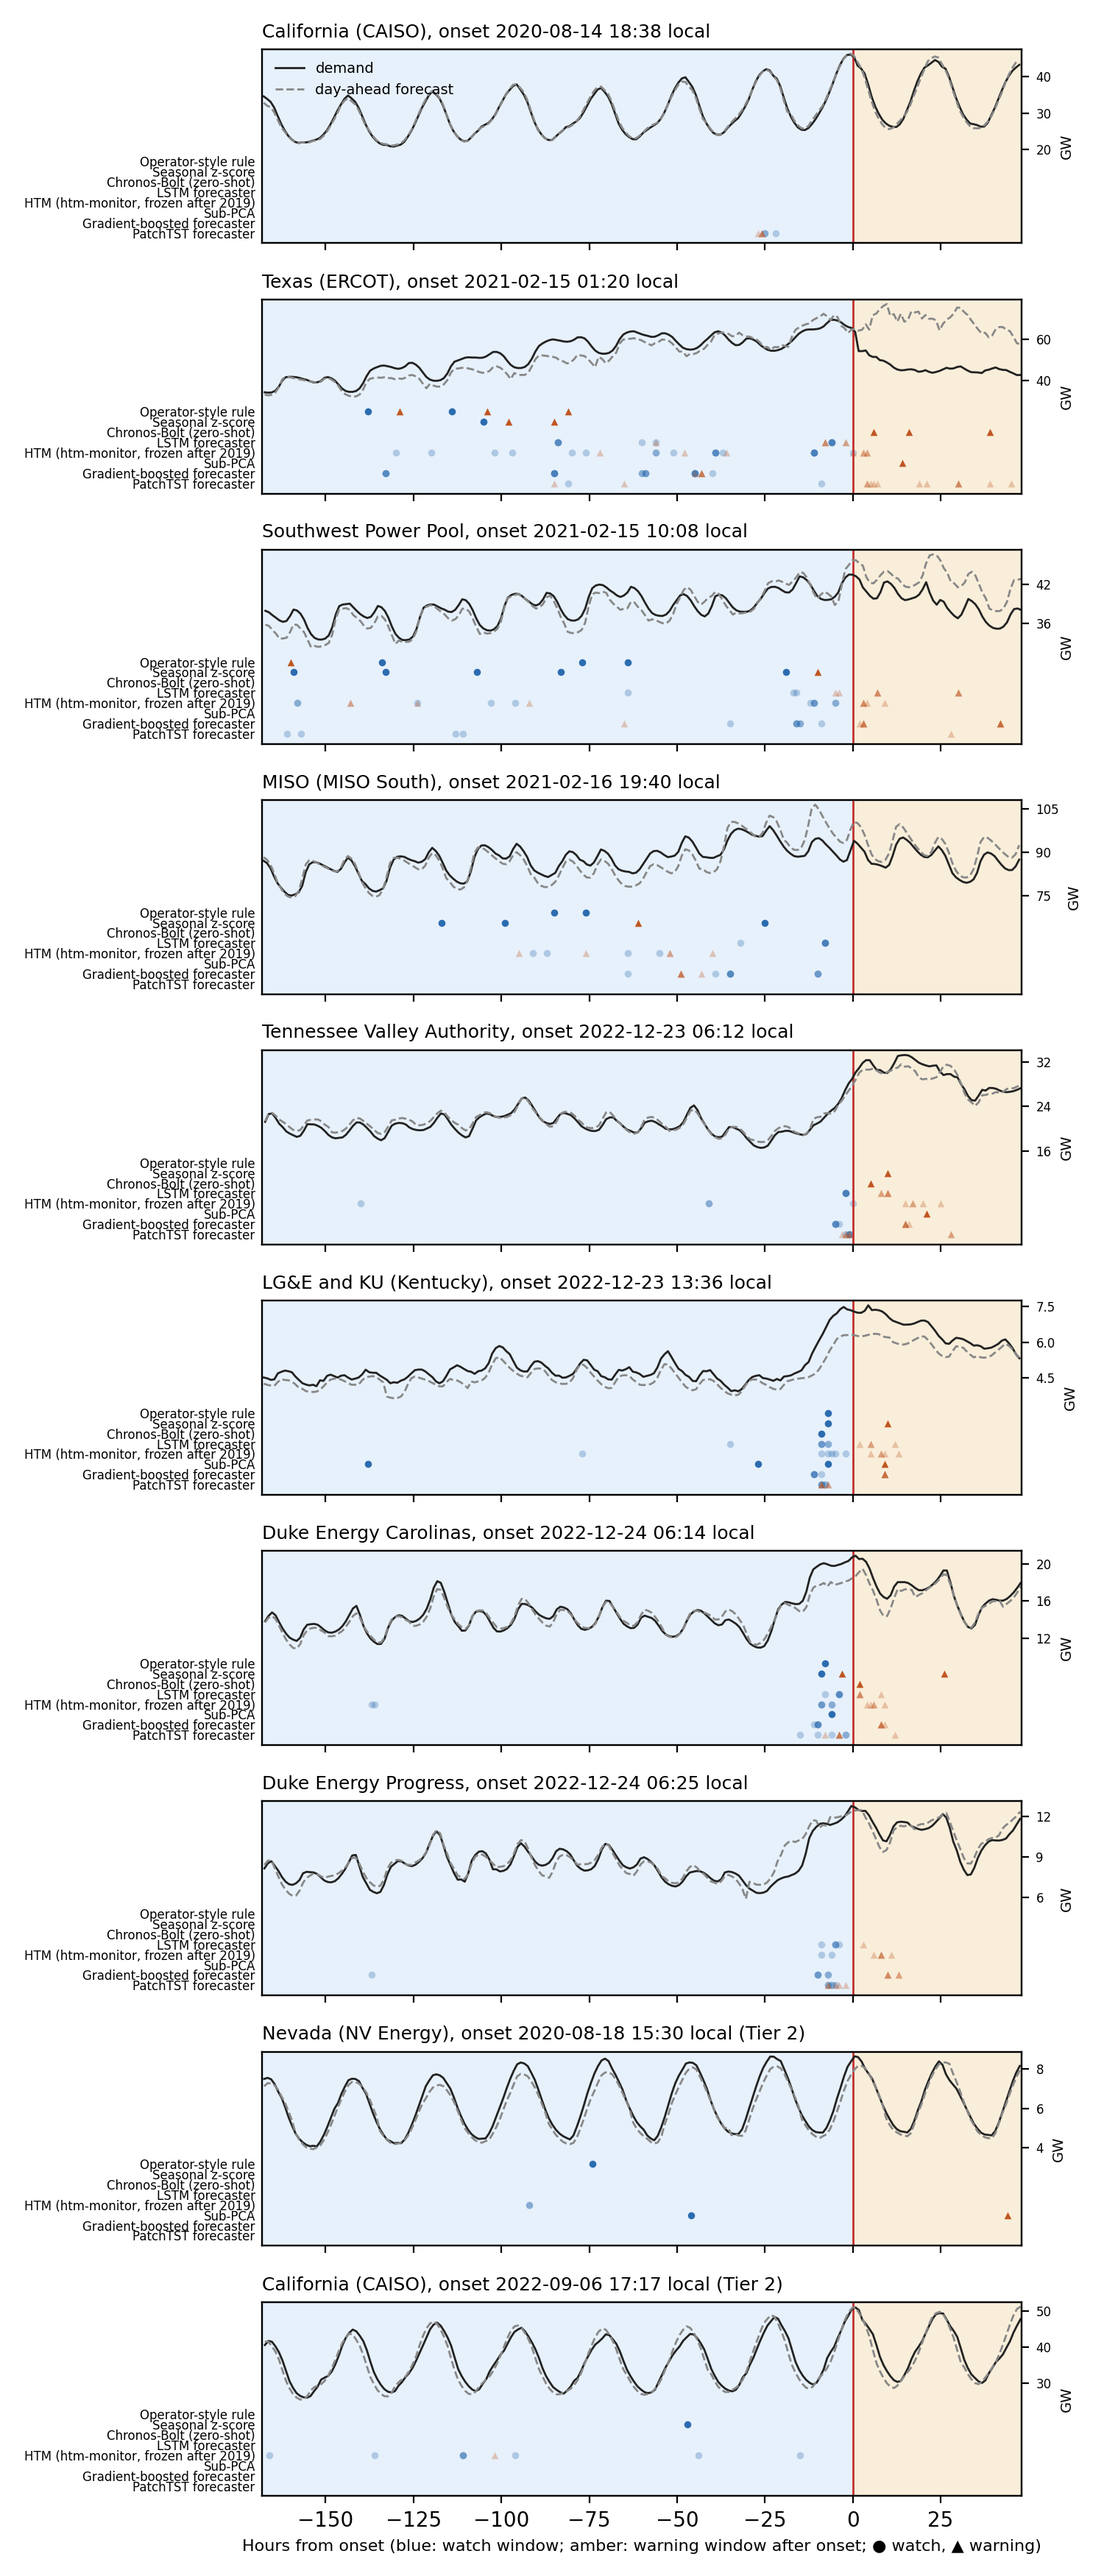
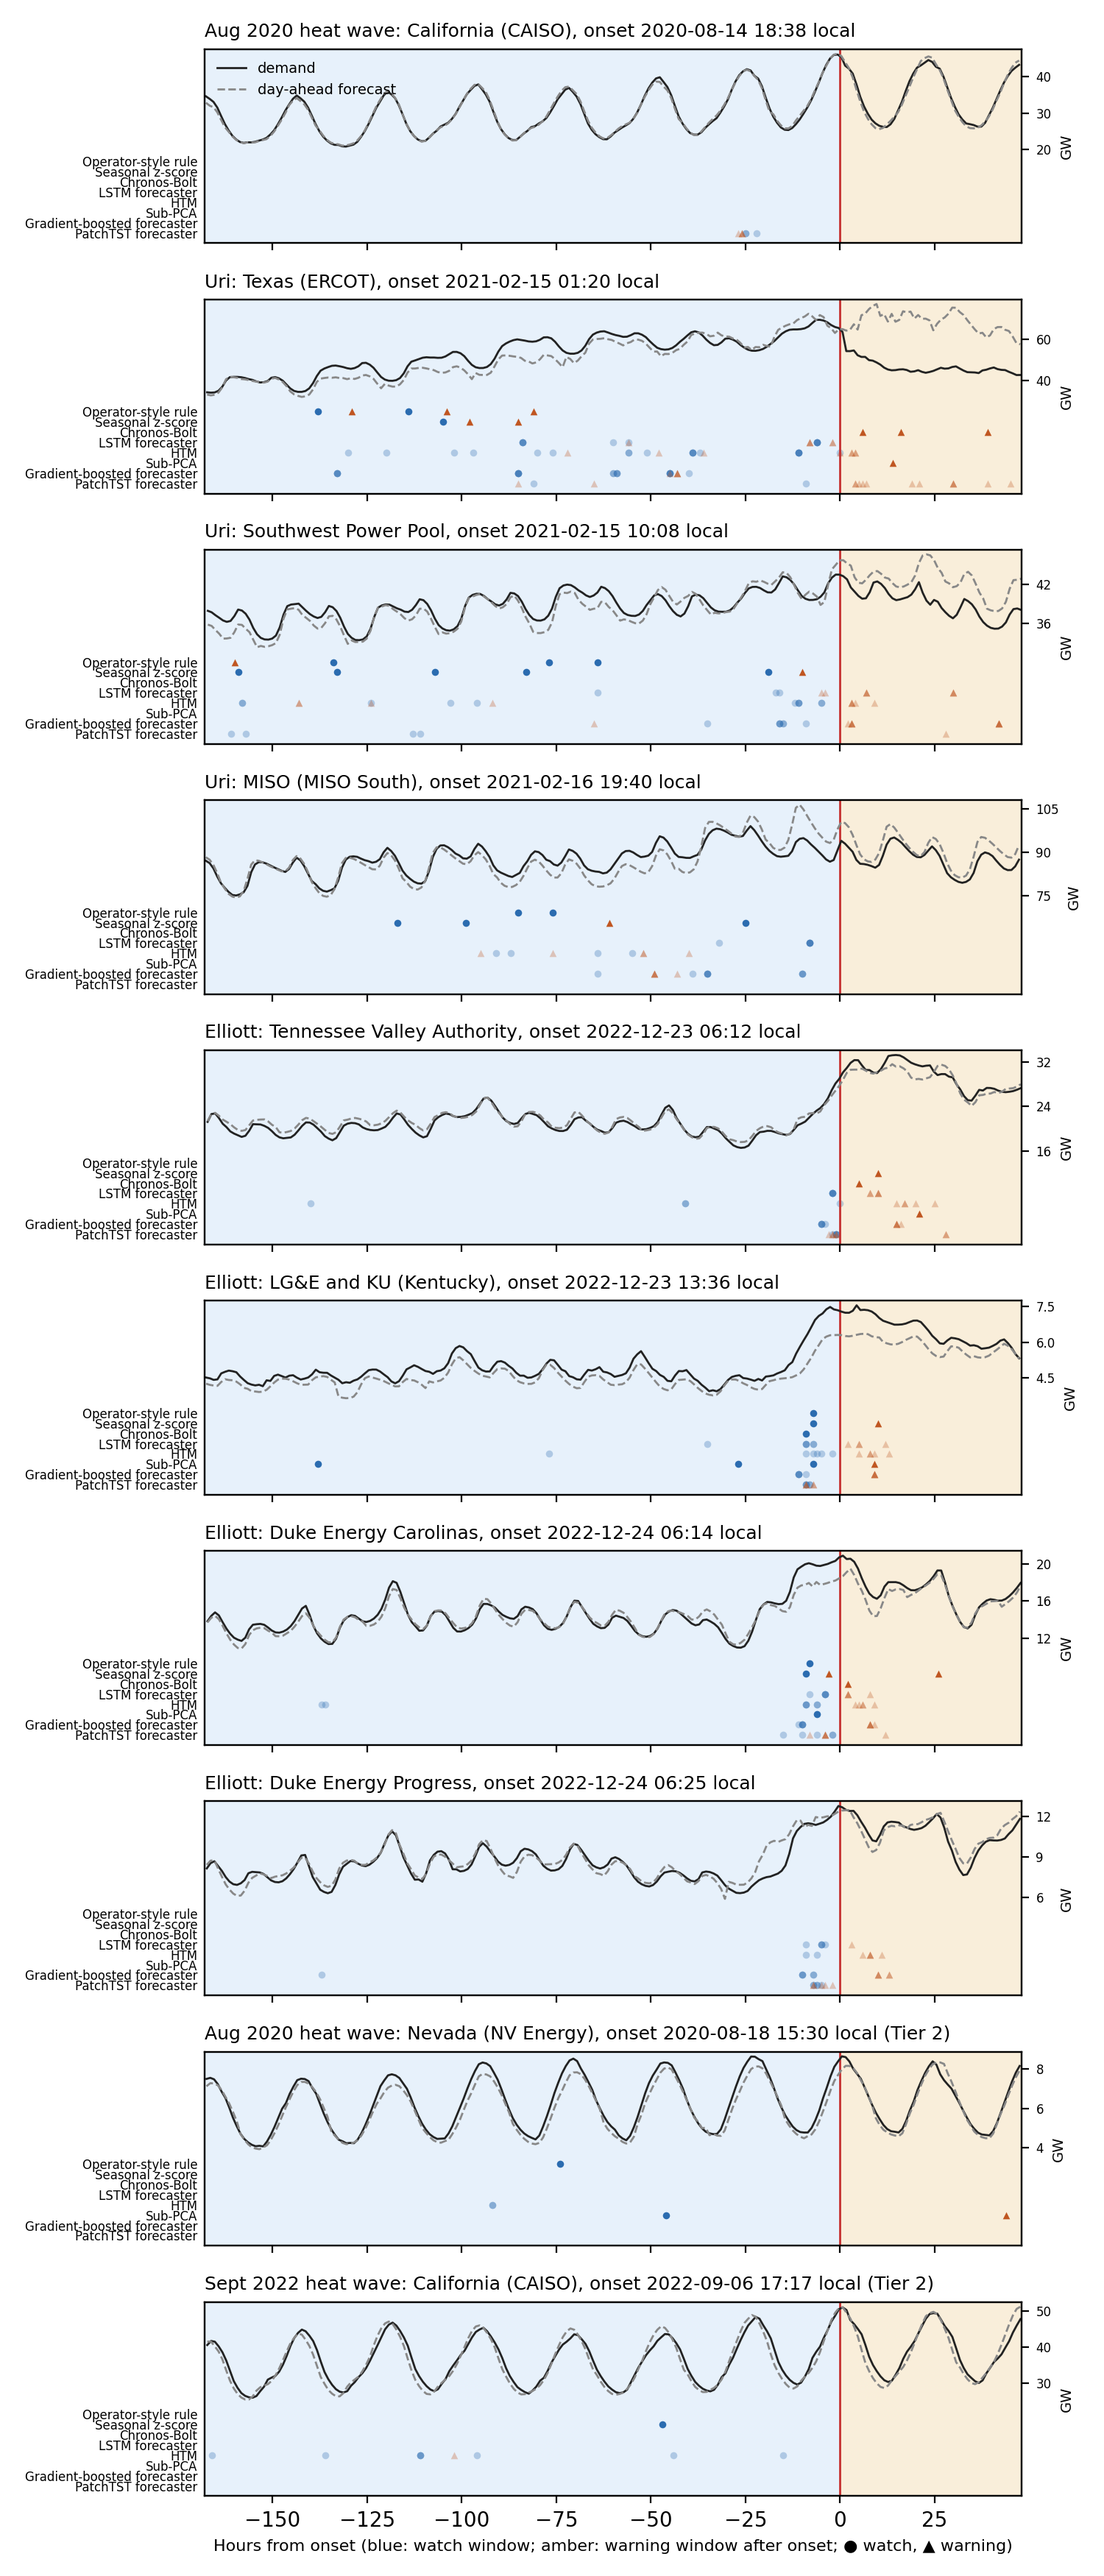
event_table.py --events: compact text-width figure for the paper's main text (docs/img/events_main.png)
Panels titled by storm or heat wave; short method names in both figures.

Claude-Session: https://claude.ai/code/session_01AcKEVoN3jgA7HfvxLB71Ae

diff --git a/scripts/event_table.py b/scripts/event_table.py
@@ -10,7 +10,9 @@ windows in which a watch or a warning counts, and every method's verified alerts
 It also writes docs/events.csv, the scored events of the release in one table (the Croissant
 metadata's event record set).
 
-Usage: python scripts/event_table.py [--out docs/event_table.md] [--figure [PATH]] [--version 2.0]
+--events picks some events (by id) for a compact, text-width figure, as in the paper's main text.
+
+Usage: python scripts/event_table.py [--out docs/event_table.md] [--figure [PATH]] [--events ID ...] [--version 2.0]
 """
 import argparse
 import sys
@@ -58,7 +60,7 @@ def impact(i):
     return f"{shed}; {i['customers']}; {i['duration']}"
 
 
-def figure(version: str, path: Path) -> None:
+def figure(version: str, path: Path, ids: list = None) -> None:
     """One panel per event: demand vs forecast from 7 days before onset to 2 days after, the scoring
     windows, and each method's verified alert starts (one mark per seed, faint when few seeds agree)."""
     import matplotlib
@@ -68,10 +70,14 @@ def figure(version: str, path: Path) -> None:
     al = pd.read_csv(ROOT / "results" / f"v{version}" / "alerts.csv")
     label = {**LABEL, "htm": HTM_V2}                    # alerts.csv labels (v2.0 on)
     order = [m for m in METHODS if m != "random"]
-    names = [label[m] for m in order]
+    names = [label[m].split(" (")[0] for m in order]          # short names: "HTM", "Chronos-Bolt"
     lo, hi = WINDOW["warning"][0], WINDOW["warning"][1]
     events = sorted(data.event_list(version), key=lambda e: (e["tier"], e["onset"]))
-    fig, axes = plt.subplots(len(events), 1, figsize=(7.5, 1.75 * len(events)), sharex=True)
+    if ids:
+        events = [e for i in ids for e in events if e["id"] == i]
+    width = 5.5 if ids else 7.5                                    # NeurIPS text width, or the appendix page
+    fig, axes = plt.subplots(len(events), 1, figsize=(width, (2.1 if ids else 1.75) * len(events)), sharex=True, squeeze=False)
+    axes = axes[:, 0]
     for ax, e in zip(axes, events):
         w = data.clean_eia930(e["grid"])
         x = w[(w.index >= e["onset"] - lo * H) & (w.index <= e["onset"] + hi * H)]
@@ -81,7 +87,8 @@ def figure(version: str, path: Path) -> None:
         ax.axvline(0, color="#c53030", lw=1)
         ax.plot(h, x.D / 1e3, color="#222", lw=1, label="demand")
         ax.plot(h, x.DF / 1e3, color="#888", lw=1, ls="--", label="day-ahead forecast")
-        name = f"{e['grid_name']}, onset {e['onset_local']} local" + (" (Tier 2)" if e["tier"] == 2 else "")
+        name = f"{e.get('storm') or e['event']}: {e['grid_name']}" + ("" if ids else f", onset {e['onset_local']} local") + \
+            (" (Tier 2)" if e["tier"] == 2 else "")
         ax.set_title(name, fontsize=9, loc="left")
         y0, y1 = ax.get_ylim()
         lane = (y1 - y0) / (len(order) + 2)
@@ -102,8 +109,8 @@ def figure(version: str, path: Path) -> None:
         gw.set_ylabel("GW", fontsize=7)
         gw.tick_params(labelsize=6)
     axes[0].legend(fontsize=7, loc="upper left", frameon=False)
-    axes[-1].set_xlabel("Hours from onset (blue: watch window; amber: warning window after onset; "
-                        "\u25cf watch, \u25b2 warning)", fontsize=8)
+    axes[-1].set_xlabel("Hours from onset" + ("" if ids else " (blue: watch window; amber: warning window after "
+                        "onset; \u25cf watch, \u25b2 warning)"), fontsize=8)
     axes[-1].set_xlim(-lo, hi)
     fig.tight_layout()
     path.parent.mkdir(parents=True, exist_ok=True)
@@ -115,10 +122,11 @@ def main():
     ap = argparse.ArgumentParser()
     ap.add_argument("--out", type=Path, default=ROOT / "docs" / "event_table.md")
     ap.add_argument("--figure", type=Path, nargs="?", const=ROOT / "docs" / "img" / "events_v2.png")
+    ap.add_argument("--events", nargs="+", help="event ids for a compact figure (default: every event)")
     ap.add_argument("--version", default="2.0")
     a = ap.parse_args()
     if a.figure:
-        figure(a.version, a.figure)
+        figure(a.version, a.figure, a.events)
     rows = sorted(list(tier1()) + list(tier2()), key=lambda r: (r["tier"], r["onset"].split(" ")[0]))
     out = ["# GridShedWatch target events", "",
            "Generated by scripts/event_table.py from gridshedwatch/events.yaml (Tier 1) and the included",
